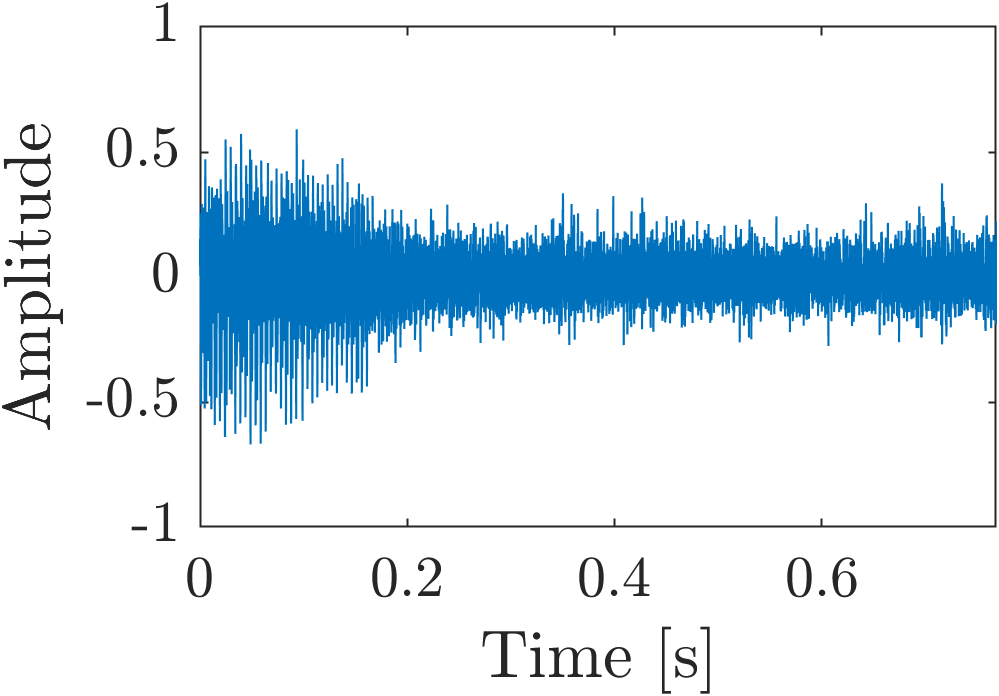
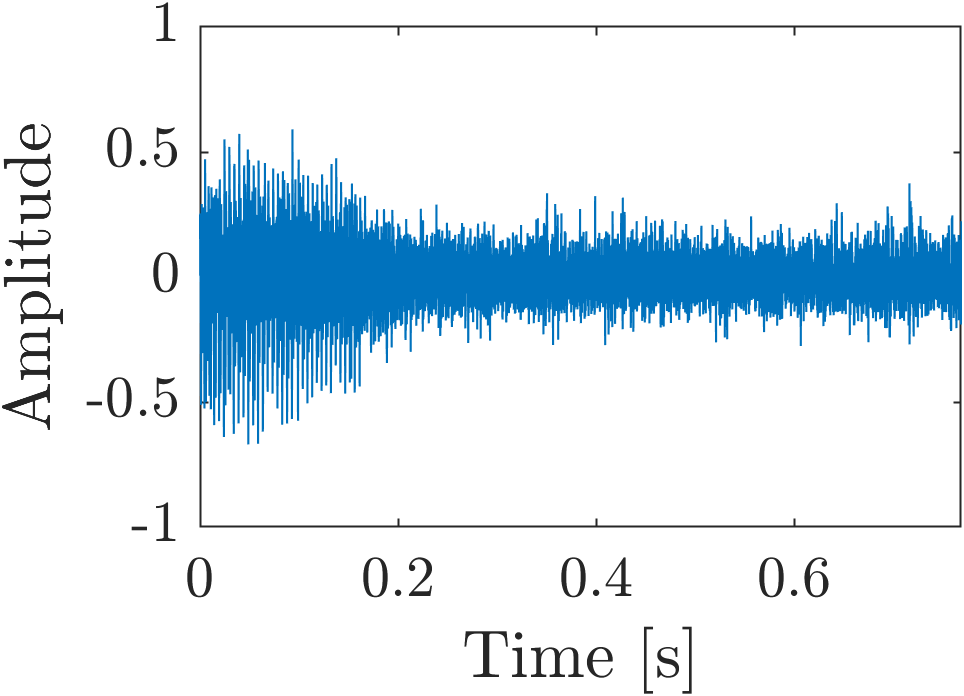
202609asjのspectrogramのfigureの大きさ、カラーバー等を修正

diff --git a/scripts/slides/202609asj/waveformAndSpectrogramOrigD.m b/scripts/slides/202609asj/waveformAndSpectrogramOrigD.m
@@ -21,6 +21,7 @@ UPSAMPLING = "origD";
 
 WIN_SIZE = 1024;   % stftの窓長
 F_VIEW = [0 5e3];  % 表示する周波数の範囲[Hz]
+% F_VIEW = [0 2e4];  % 20kHzまで表示する場合
 C_VIEW = [-120 0]; % 表示するレベルの範囲[dB]
 C_STEP = 30;       % カラーバーの目盛り間隔[dB]
 T_STEP = 0.2;      % 時間軸の目盛り間隔[s]
@@ -28,7 +29,7 @@ Y_VIEW = [-1 1];   % 表示するAmplitudeの範囲
 
 % 図のサイズ[cm]とフォントサイズ[pt]（スライド用の標準値）
 % 波形表示figure、スペクトログラム表示figureの大きさ
-FIG_W = [8, 8] ; FIG_H = [6, 10];
+FIG_W = [8.5, 8] ; FIG_H = [6, 10];
 FONT_TICK = 14; FONT_LABEL = 16;
 
 
@@ -76,6 +77,7 @@ for k = 1:numel(audioCell)
     ax.XLabel.FontSize = FONT_LABEL;
     ax.YLabel.FontSize = FONT_LABEL;
 
+    tightenAxes(ax);
     saveSlideFigure(fig,saveDir,name+"_waveform",FIG_W(1),FIG_H(1));
 
     % スペクトログラム（カラーバーは図ごとに必須）
@@ -101,14 +103,14 @@ for k = 1:numel(audioCell)
     ax.XLabel.FontSize = FONT_LABEL;
     ax.YLabel.FontSize = FONT_LABEL;
 
-    c = colorbar(ax);
-    c.Layout.Tile = "east";
-    c.Ticks = C_VIEW(1):C_STEP:C_VIEW(2);
-    c.FontSize = FONT_TICK;
-    c.TickLabelInterpreter = "latex";
-    c.Label.String = "Magnitude [dB]";
-    c.Label.Interpreter = "latex";
-    c.Label.FontSize = FONT_LABEL;
+    % c = colorbar(ax);
+    % c.Layout.Tile = "east";
+    % c.Ticks = C_VIEW(1):C_STEP:C_VIEW(2);
+    % c.FontSize = FONT_TICK;
+    % c.TickLabelInterpreter = "latex";
+    % c.Label.String = "Magnitude [dB]";
+    % c.Label.Interpreter = "latex";
+    % c.Label.FontSize = FONT_LABEL;
 
-    saveSlideFigure(fig,saveDir,name+"_spectrogram_colorbar",FIG_W(2),FIG_H(2));
+    saveSlideFigure(fig,saveDir,name+"_spectrogram",FIG_W(2),FIG_H(2));
 end

diff --git a/scripts/slides/202609asj/waveformAndSpectrogramUpsampling.m b/scripts/slides/202609asj/waveformAndSpectrogramUpsampling.m
@@ -44,7 +44,7 @@ Y_VIEW = [-1 1];   % 表示するAmplitudeの範囲
 
 % 図のサイズ[cm]とフォントサイズ[pt]（スライド用の標準値）
 % 波形表示figure、スペクトログラム表示figureの大きさ
-FIG_W = [8.5, 8] ; FIG_H = [6, 10];
+FIG_W = [8.2, 8] ; FIG_H = [6, 10];
 FONT_TICK = 14; FONT_LABEL = 16;
 
 %% 音声データを読み込む
@@ -146,8 +146,8 @@ for k = 1:numel(audioCell)
     ylim(ax,F_VIEW); clim(ax,C_VIEW);
 
     ax.YAxis.Exponent = 3;
-    % yticks(ax,F_VIEW(1):1e3:F_VIEW(2));
-    yticks(ax,F_VIEW(1):5e3:F_VIEW(2)); % F_VIEWが20kHzまでのとき
+    yticks(ax,F_VIEW(1):1e3:F_VIEW(2));
+    % yticks(ax,F_VIEW(1):5e3:F_VIEW(2)); % F_VIEWが20kHzまでのとき
     xticks(ax,0:T_STEP:max(xlim(ax)));
     ax.TickLabelInterpreter = "latex";
     box(ax,"on");
